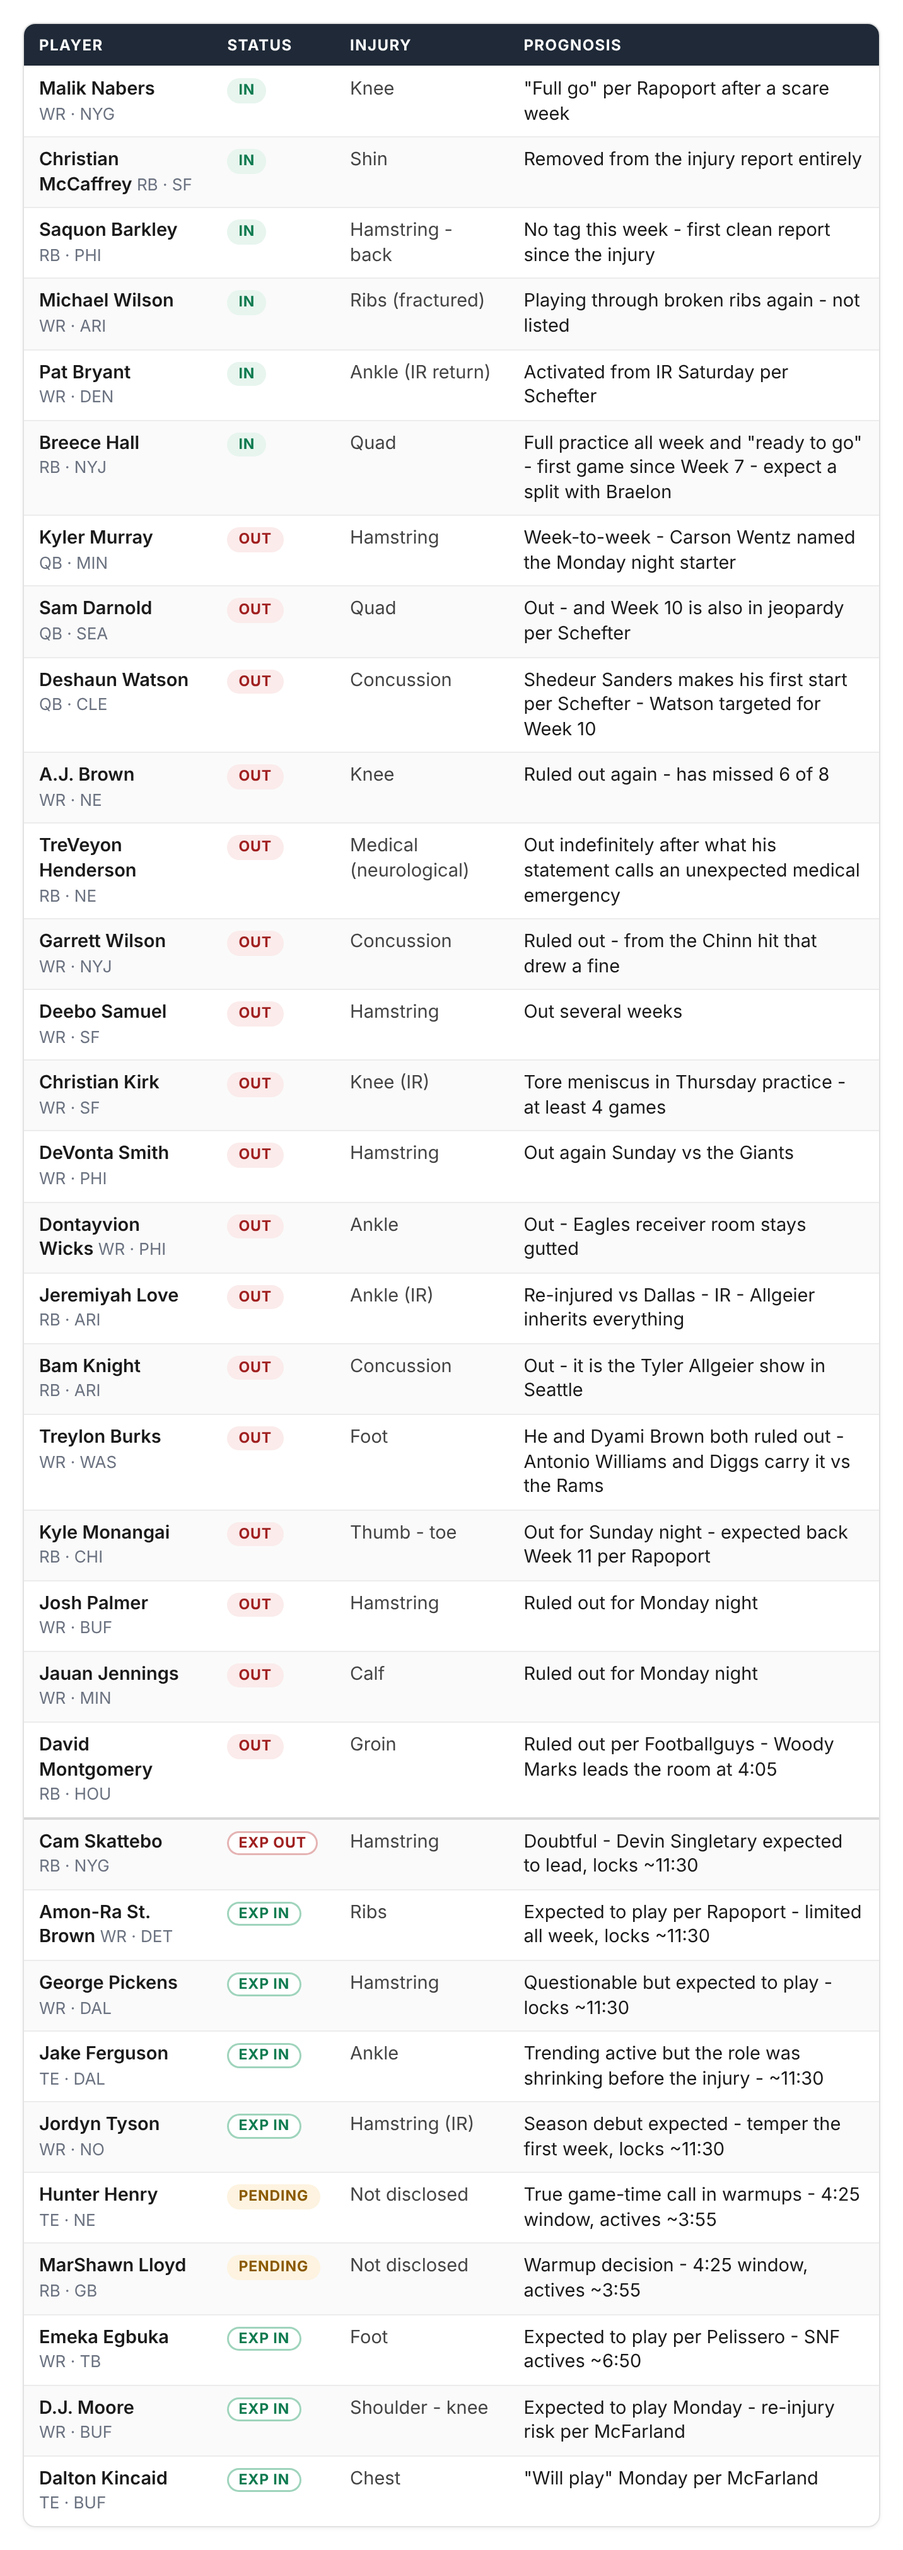
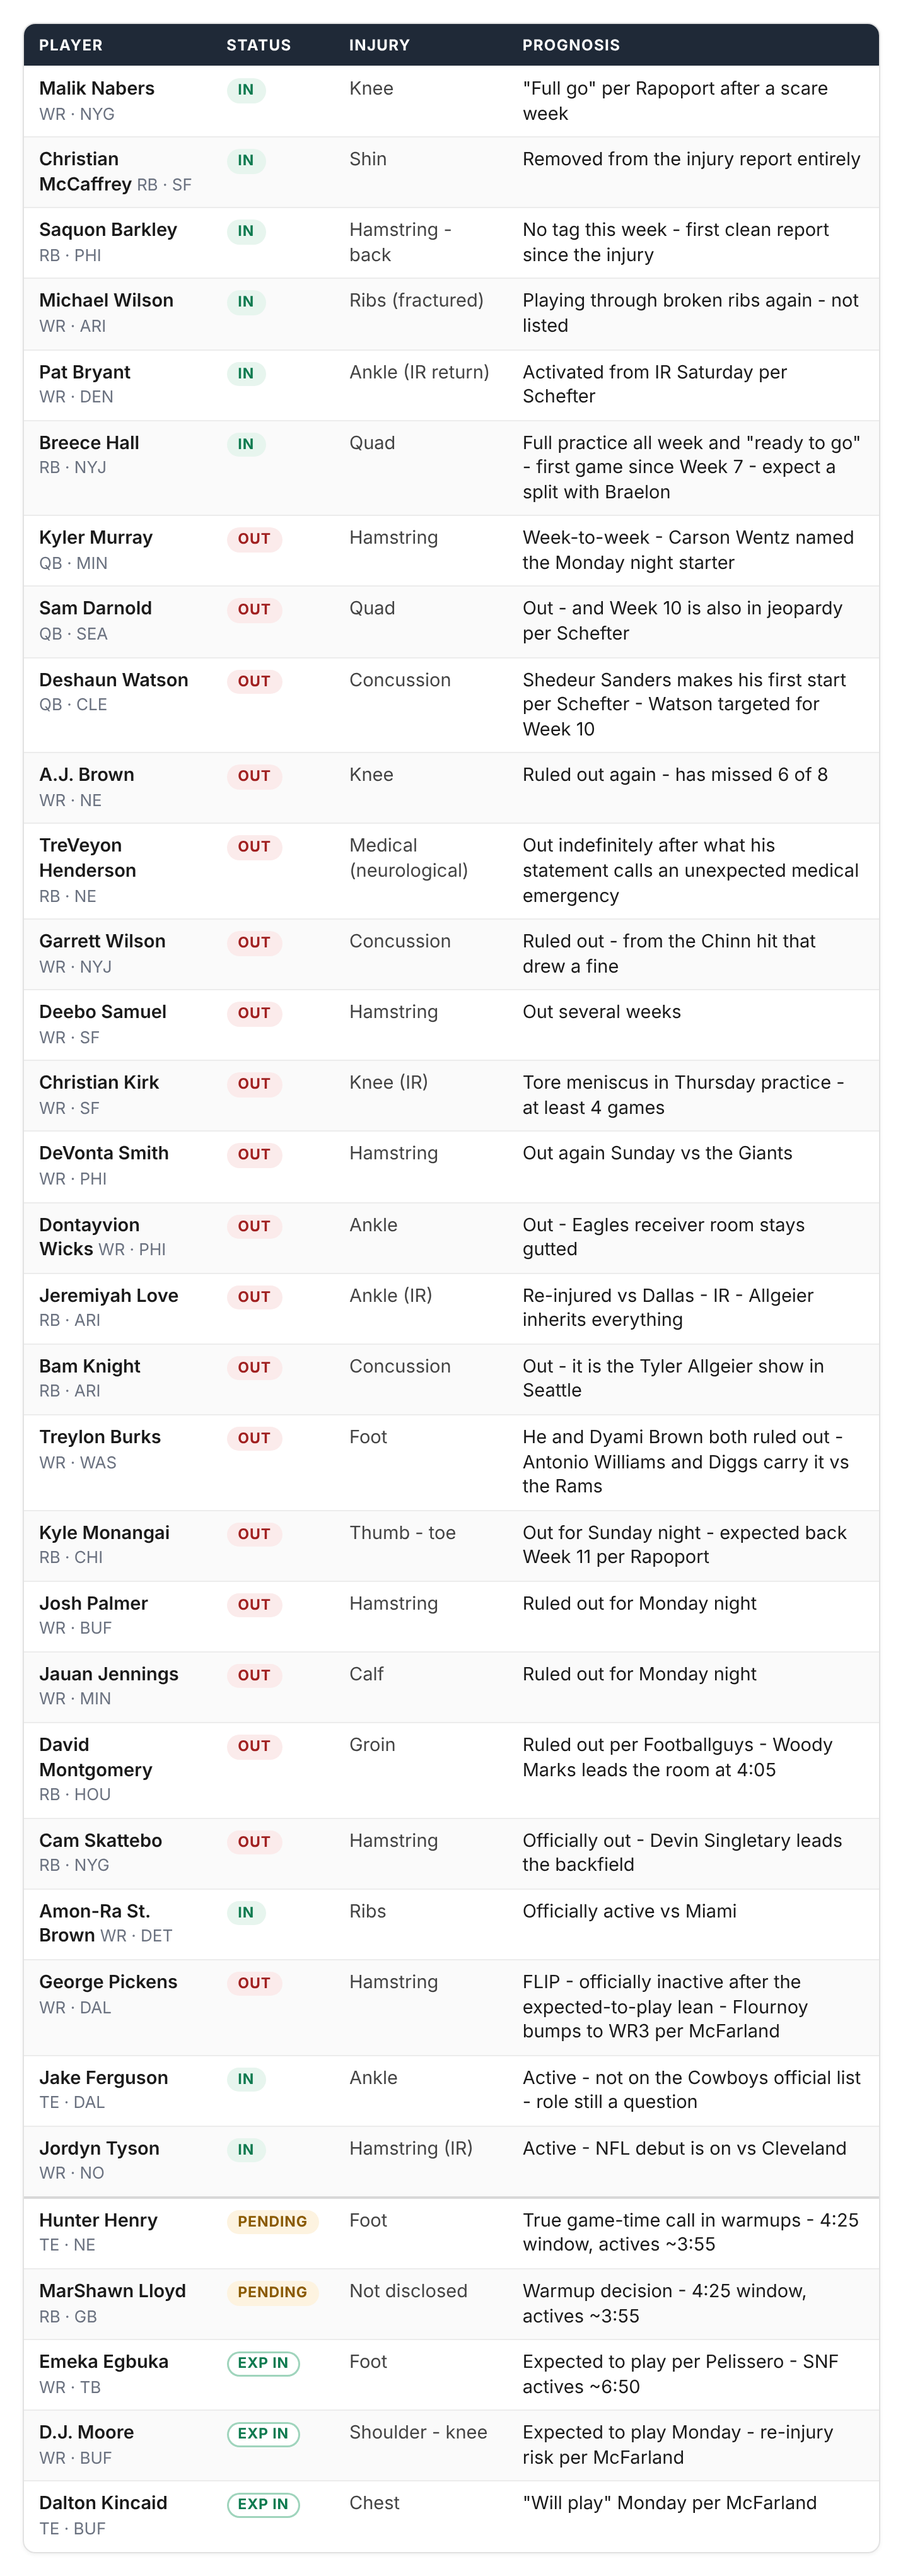
Week 9 FINAL wire — Pickens FLIPS to inactive; Skattebo/ARSB/Ferguson/Tyson locked [skip ci]
Claude-Session: https://claude.ai/code/session_01LD24FbXSMtPMcXZkoCgqbd

diff --git a/data/sunday/injury-wire.md b/data/sunday/injury-wire.md
@@ -11,7 +11,7 @@
 #   - Locked rows first, not-locked rows last (renderer draws the divider).
 #   - Pipes (|) can't appear inside cell text.
 #
-# WEEK 9 — 2026-11-08 — EXPECTED wire, ships with the issue (byes: PIT, TEN; JAX-BAL played Thursday)
+# WEEK 9 — 2026-11-08 — FINAL wire, 12:15 ET (1:00 slate official; byes: PIT, TEN)
 
 | Player | Pos/Team | Status | Injury | Prognosis |
 |---|---|---|---|---|
@@ -38,12 +38,12 @@
 | Josh Palmer | WR · BUF | OUT | Hamstring | Ruled out for Monday night |
 | Jauan Jennings | WR · MIN | OUT | Calf | Ruled out for Monday night |
 | David Montgomery | RB · HOU | OUT | Groin | Ruled out per Footballguys - Woody Marks leads the room at 4:05 |
-| Cam Skattebo | RB · NYG | EXP OUT | Hamstring | Doubtful - Devin Singletary expected to lead, locks ~11:30 |
-| Amon-Ra St. Brown | WR · DET | EXP IN | Ribs | Expected to play per Rapoport - limited all week, locks ~11:30 |
-| George Pickens | WR · DAL | EXP IN | Hamstring | Questionable but expected to play - locks ~11:30 |
-| Jake Ferguson | TE · DAL | EXP IN | Ankle | Trending active but the role was shrinking before the injury - ~11:30 |
-| Jordyn Tyson | WR · NO | EXP IN | Hamstring (IR) | Season debut expected - temper the first week, locks ~11:30 |
-| Hunter Henry | TE · NE | PENDING | Not disclosed | True game-time call in warmups - 4:25 window, actives ~3:55 |
+| Cam Skattebo | RB · NYG | OUT | Hamstring | Officially out - Devin Singletary leads the backfield |
+| Amon-Ra St. Brown | WR · DET | IN | Ribs | Officially active vs Miami |
+| George Pickens | WR · DAL | OUT | Hamstring | FLIP - officially inactive after the expected-to-play lean - Flournoy bumps to WR3 per McFarland |
+| Jake Ferguson | TE · DAL | IN | Ankle | Active - not on the Cowboys official list - role still a question |
+| Jordyn Tyson | WR · NO | IN | Hamstring (IR) | Active - NFL debut is on vs Cleveland |
+| Hunter Henry | TE · NE | PENDING | Foot | True game-time call in warmups - 4:25 window, actives ~3:55 |
 | MarShawn Lloyd | RB · GB | PENDING | Not disclosed | Warmup decision - 4:25 window, actives ~3:55 |
 | Emeka Egbuka | WR · TB | EXP IN | Foot | Expected to play per Pelissero - SNF actives ~6:50 |
 | D.J. Moore | WR · BUF | EXP IN | Shoulder - knee | Expected to play Monday - re-injury risk per McFarland |
